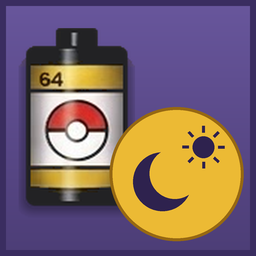
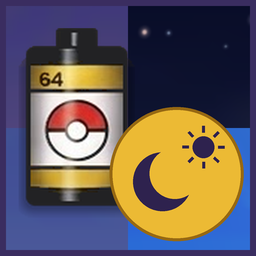
Island Skies: its picture is the family's, with its own skies behind
The four Beach skies the mod draws, sunset, night, dawn and day, fill
the tile behind the canister and the badge, and the same picture is the
mod's thumb.png, as the other two mods have it.

diff --git a/tools/make_icons.py b/tools/make_icons.py
@@ -1,7 +1,11 @@
 """The mods' 256x256 icons (mods/<name>/thunderstore/icon.png), one family:
 the port's blue-violet tile and its film canister, both taken from the
 port's own logo with the port's own tools/icon_gen.py, and a gold badge at
-the lower right with the mod's sign drawn on it. Nothing of the game's.
+the lower right with the mod's sign drawn on it. Island Skies has its own
+four skies behind the canister instead of the plain tile, inside the same
+rim: the Beach's sunset, night, dawn and day as the mod draws them
+(mods/island_skies/tools/sky, square cuts of captured frames, no HUD). The
+same picture is each mod's thumb.png, the one its details page shows.
 
     python tools/make_icons.py <Snap64Recomp checkout>
 
@@ -25,12 +29,26 @@ GOLD_EDGE = (150, 104, 18)
 INK = (46, 34, 78)          # the tile's darkest violet, for the signs
 
 
-def base_with_canister():
+def sky_quads(folder, big):
+    """Four square skies as the tile's face: sunset and night above, dawn
+    and day below, the night at the upper right where the canister and
+    the badge leave the most of it showing."""
+    quads = Image.new("RGBA", (big, big), (0, 0, 0, 255))
+    q = big // 2
+    for i, name in enumerate(("sunset", "night", "dawn", "day")):
+        sky = Image.open(os.path.join(folder, name + ".png")).convert("RGBA").resize((q, q), Image.LANCZOS)
+        quads.paste(sky, ((i % 2) * q, (i // 2) * q))
+    return quads
+
+
+def base_with_canister(skies_folder=None):
     logo = Image.open(ig.LOGO).convert("RGBA")
     can = ig.cut_canister(logo)
     can = can.crop(ig.alpha_bbox(can))
-    tile, _ = ig.tile(S)                     # drawn at ig.SS times the size
+    tile, face = ig.tile(S)                  # drawn at ig.SS times the size
     big = tile.size[0]
+    if skies_folder is not None:
+        tile.paste(sky_quads(skies_folder, big), (0, 0), face)   # inside the rim
     h = round(big * 0.74)
     w = round(can.width * h / can.height)
     can = can.resize((w, h), Image.LANCZOS)
@@ -110,15 +128,17 @@ def skies(img):
         d.line((x0, y0, x1, y1), fill=(*INK, 255), width=max(2, int(r * 0.05)))
 
 
-def write(name, sign):
-    img = base_with_canister()
+def write(name, sign, skies_folder=None):
+    img = base_with_canister(skies_folder)
     sign(img)
-    out = os.path.join(ROOT, "mods", name, "thunderstore", "icon.png")
-    os.makedirs(os.path.dirname(out), exist_ok=True)
-    img.resize((S, S), Image.LANCZOS).convert("RGB").save(out)
-    print("wrote", os.path.relpath(out, ROOT))
+    small = img.resize((S, S), Image.LANCZOS).convert("RGB")
+    for out in (os.path.join(ROOT, "mods", name, "thunderstore", "icon.png"),
+                os.path.join(ROOT, "mods", name, "thumb.png")):
+        os.makedirs(os.path.dirname(out), exist_ok=True)
+        small.save(out)
+        print("wrote", os.path.relpath(out, ROOT))
 
 
 write("unlimited_film", infinity)
 write("unlock_everything", open_padlock)
-write("island_skies", skies)
+write("island_skies", skies, os.path.join(ROOT, "mods", "island_skies", "tools", "sky"))
